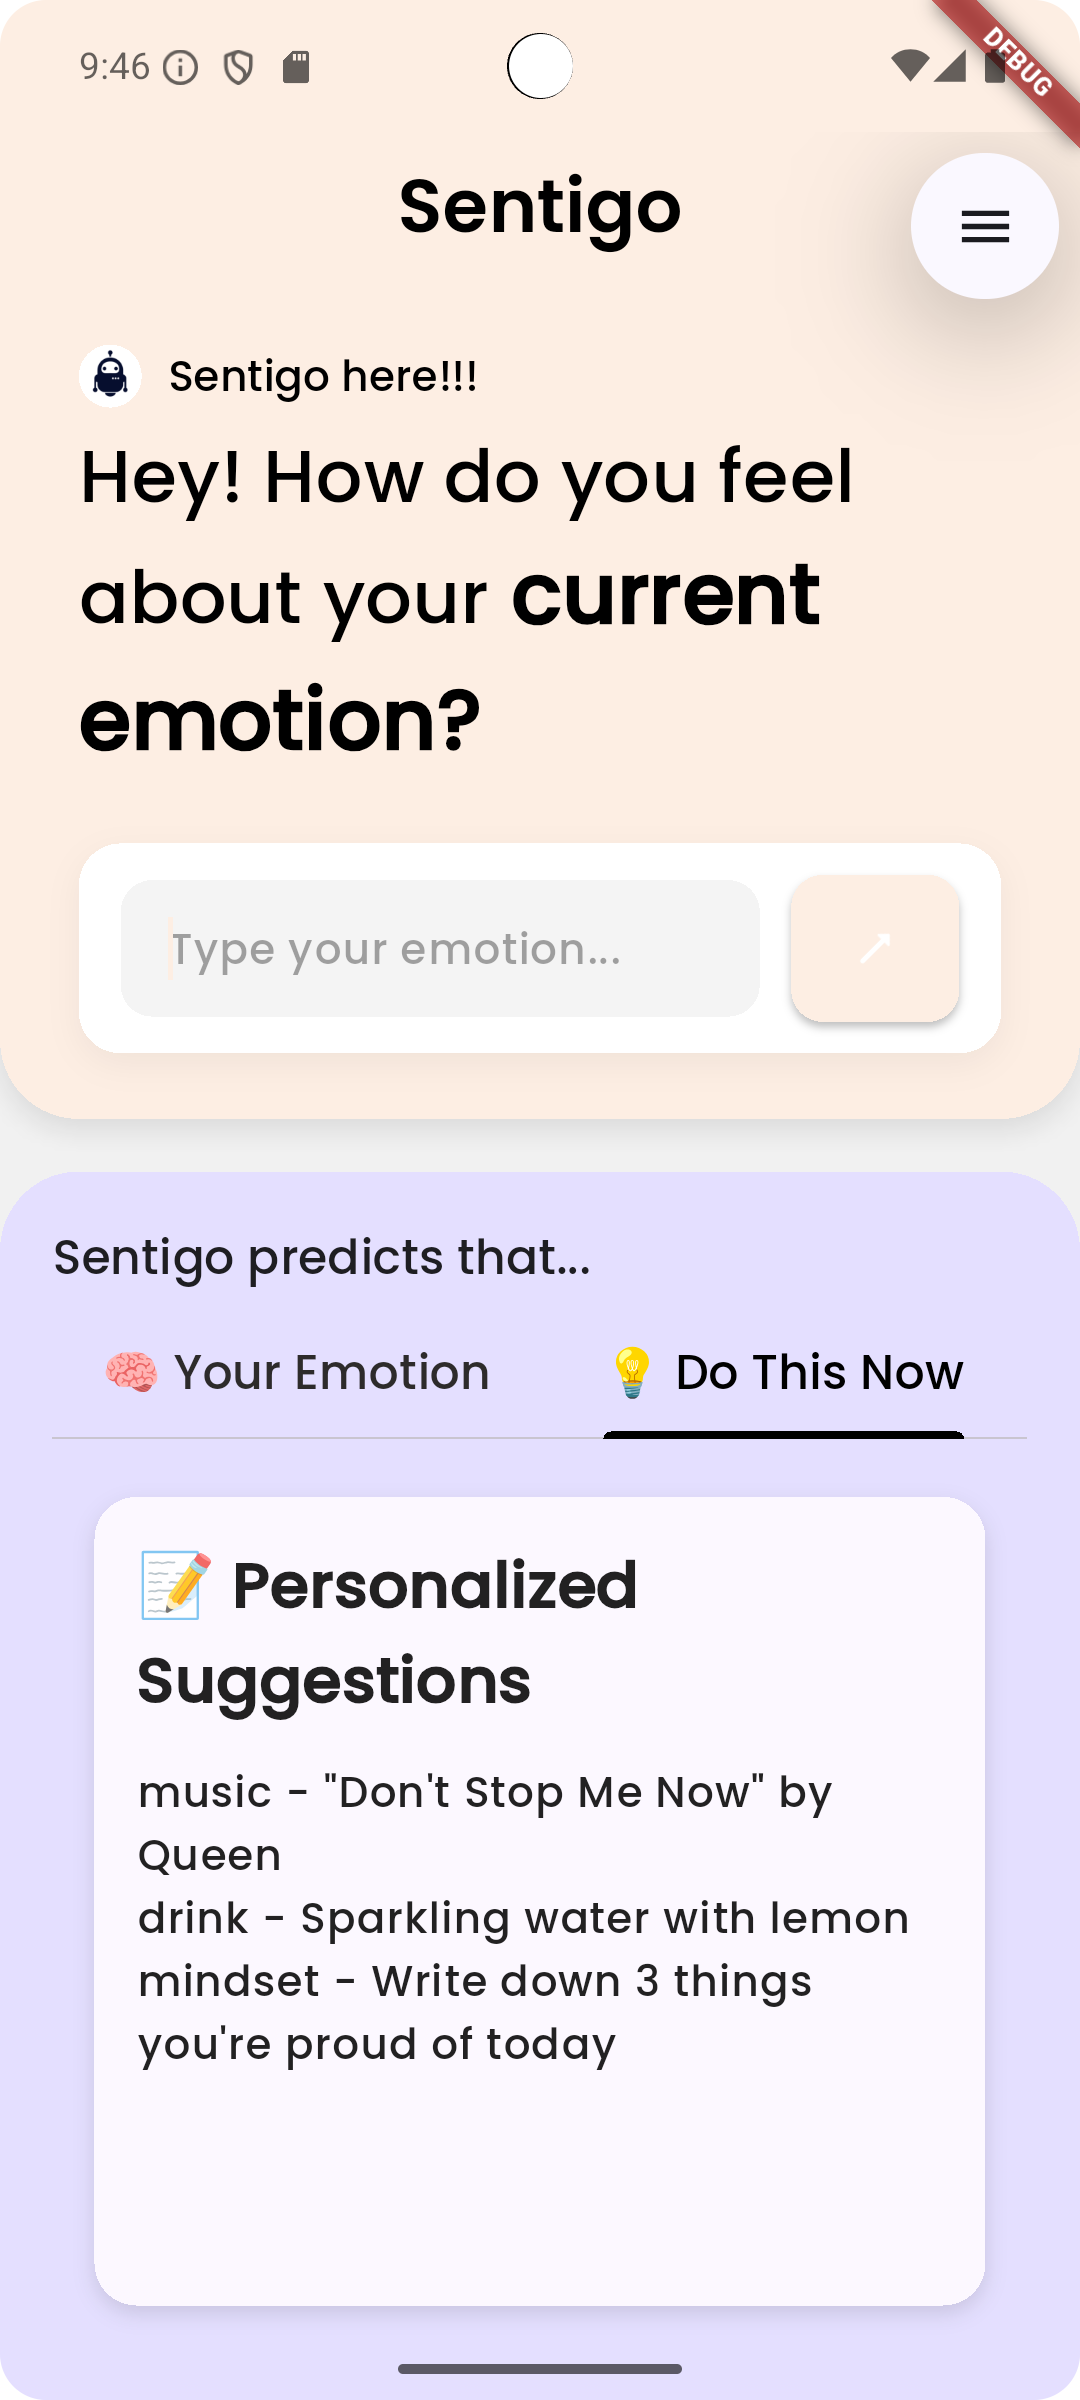
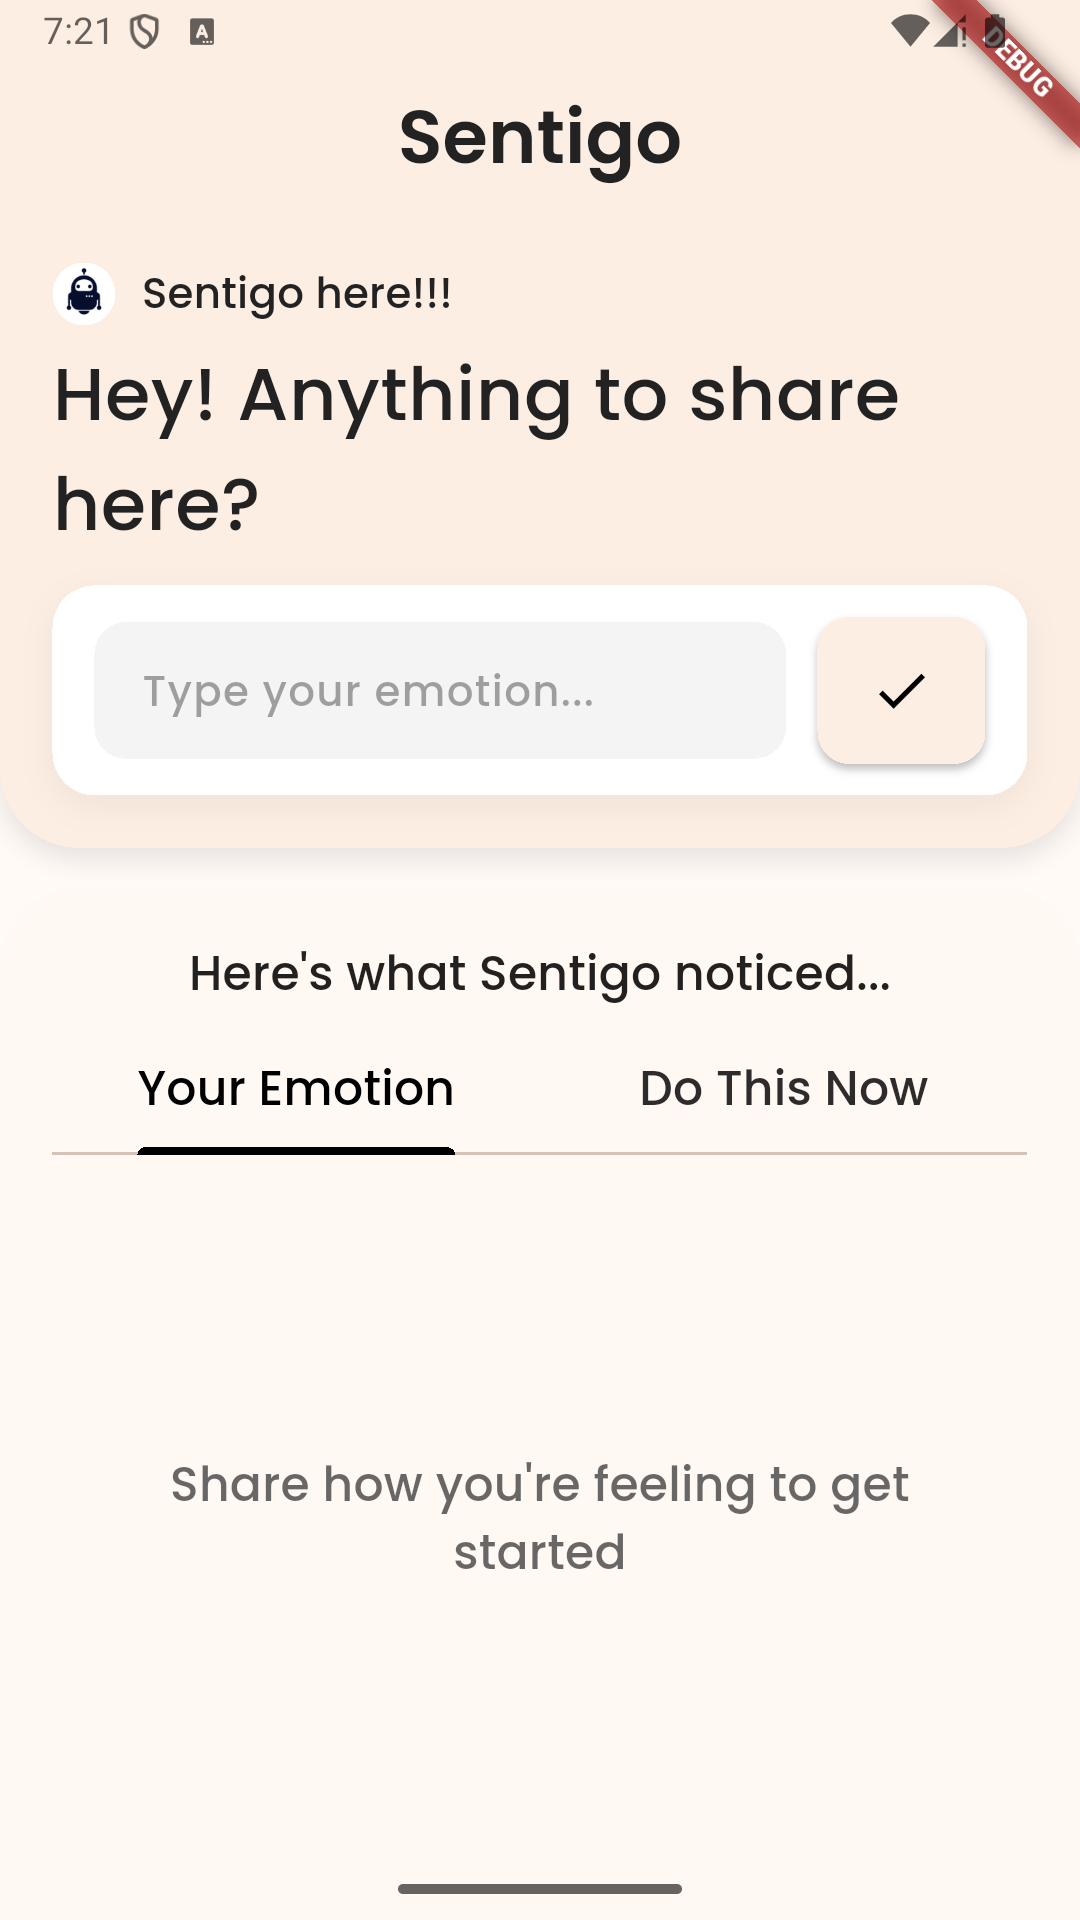
updated example images and readme.md

diff --git a/README.md b/README.md
@@ -1,45 +1,51 @@
 # Sentigo
 
-Sentigo is a mobile application designed to analyze user emotions and provide personalized recommendations. It consists of two microservices (`emotion_service` and `recommendation_service`) and a Flutter-based frontend.
+Sentigo is a mobile application designed to analyze user emotions and provide personalized recommendations. It consists of two **FastAPI microservices** (`emotion_service` and `recommendation_service`) and a **Flutter-based frontend**.
 
 ## Features
 
-- **Emotion Detection**: Analyze user input to detect emotions using the `emotion_service`.
-- **Personalized Recommendations**: Provide tailored recommendations based on detected emotions using the `recommendation_service`.
+* **Emotion Detection**: Analyzes user input and detects the underlying emotion using the `emotion_service`.
+* **Personalized Recommendations**: Generates recommendations based on the detected emotion using the `recommendation_service`.
+* **Microservice Architecture**: Separates emotion detection and recommendation generation into independent services.
+* **AI-Powered Recommendations**: Uses the Groq API to generate personalized recommendations.
 
 ---
 
-
 ## Images
+
 <p float="left">
-  <img src="images/example2.png" width="25%" style="margin-right: 5%"/>
   <img src="images/example1.png" width="25%" />
+  <img src="images/example2.png" width="25%" />
+  <img src="images/example3.png" width="25%" style="margin-right: 5%"/>
 </p>
 
+---
 
 ## Architecture
 
 The project is divided into three main components:
 
-1. **Backend Microservices**:
+### 1. Backend Microservices
 
-   - **`emotion_service`**: Detects emotions from user input.
-   - **`recommendation_service`**: Generates recommendations based on the detected emotion.
+* **`emotion_service`**: A FastAPI service that analyzes user input and predicts the user's emotion using the trained emotion classification model.
+* **`recommendation_service`**: A FastAPI service that generates personalized recommendations based on the detected emotion using the Groq API.
 
-2. **Frontend**:
+### 2. Frontend
 
-   - A Flutter application that interacts with the backend services to provide a user-friendly interface.
+* A **Flutter application** that communicates with the backend microservices and provides a user-friendly mobile interface.
 
-3. **Docker Compose**:
-   - Orchestrates the microservices for easy deployment and management.
+### 3. Docker Compose
+
+* **Docker Compose** is used to orchestrate the backend microservices for local development and deployment.
 
 ---
 
 ## Prerequisites
 
-- Docker and Docker Compose installed on your system.
-- Flutter SDK installed for frontend development.
-- Android studio for running the mobile emulator and backend services
+* Docker and Docker Compose
+* Flutter SDK
+* Android Studio (for Android emulator and Flutter development)
+* A **Groq API key**
 
 ---
 
@@ -51,37 +57,142 @@ The project is divided into three main components:
 git clone https://github.com/sreyas-b-anand/sentigo
 cd sentigo
 ```
-### 2. ENV setup
-- Create a .env file in recommendation_service folder and paste the below code in it . You need an api key from <link>https://mistral.ai/</link>
-```bash
-'MISTRAL_API_KEY'='YOUR API KEY'
+
+### 2. Environment Setup
+
+Create a `.env` file inside the `recommendation_service` directory:
+
+```env
+GROQ_API_KEY=YOUR_API_KEY
 ```
 
-- Create a .env file in frontend folder and paste the below code in it
-```bash
-FLUTTER_APP_EMOTION_SERVICE=your_backend_url/get_emotion
-FLUTTER_APP_RECOMMENDATION_SERVICE=your_backend_url/get_recommendation
+The Groq API key is required by the recommendation service to generate personalized recommendations.
+
+---
+
+### 3. Configure Backend URLs
+
+The Flutter application stores the backend API URLs inside the `config` folder:
+
+```text
+frontend/
+└── lib/
+    └── config/
 ```
 
-### 3. Backend Setup
+Open the configuration file inside this folder and update the API URLs according to your backend deployment:
+
+```dart
+const emotionServiceUrl = 'YOUR_EMOTION_SERVICE_URL';
+const recommendationServiceUrl = 'YOUR_RECOMMENDATION_SERVICE_URL';
+```
+
+For example:
+
+```dart
+const emotionServiceUrl = 'https://your-emotion-service-url';
+const recommendationServiceUrl = 'https://your-recommendation-service-url';
+```
+
+> **Note:** Update these URLs whenever you want to connect the Flutter application to a different backend deployment.
+
+---
+
+### 4. Backend Setup
+
+Navigate to the backend directory:
+
 ```bash
 cd backend
+```
+
+Build and start the microservices using Docker Compose:
+
+```bash
 docker-compose up --build
 ```
- * This will:
 
-  - Start the emotion_service on port 5000.
-  - Start the recommendation_service on port 5001.
+This starts:
 
-### 4. Frontend setup
+* **Emotion Service** → Port `5000`
+* **Recommendation Service** → Port `5001`
+
+Both services are implemented using **FastAPI**.
+
+---
+
+### 5. Frontend Setup
+
+Navigate to the Flutter frontend:
+
 ```bash
 cd frontend
+```
+
+Install the required dependencies:
+
+```bash
 flutter pub get
 ```
 
-* This will install the required dependencies
+---
 
-### 5. Run the application
+### 6. Run the Application
+
+Make sure the backend services are running or that the configured backend URLs point to deployed services.
+
+Then start the Flutter application:
+
 ```bash
 flutter run
+```
+
+The application can be run using an Android emulator or a connected Android device.
+
+---
+
+## Tech Stack
+
+### Frontend
+
+* Flutter
+* Dart
+* Riverpod
+* HTTP
+
+### Backend
+
+* Python
+* FastAPI
+* Scikit-learn
+* Groq API
+
+### Infrastructure
+
+* Docker
+* Docker Compose
+
+---
+
+## Project Structure
+
+```text
+sentigo/
+├── backend/
+│   ├── emotion_service/
+│   ├── recommendation_service/
+│   └── docker-compose.yml
+│
+├── frontend/
+│   ├── lib/
+│   │   ├── config/
+│   │   │   └── ...
+│   │   └── ...
+│   └── ...
+│
+├── images/
+│   ├── example1.png
+│   └── example2.png
+│
+└── README.md
 ```
